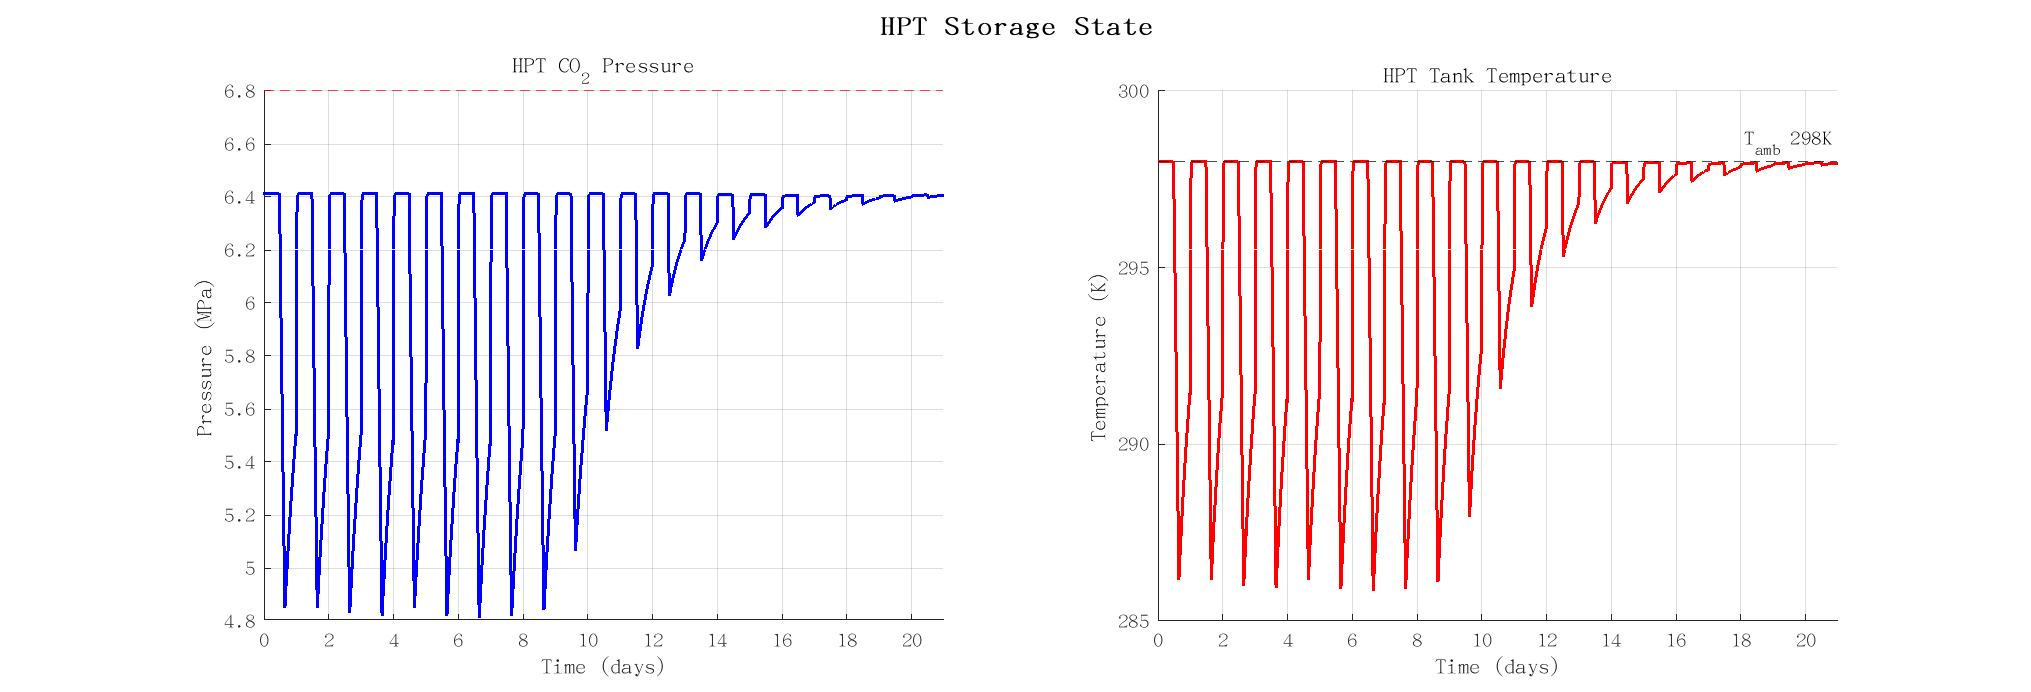
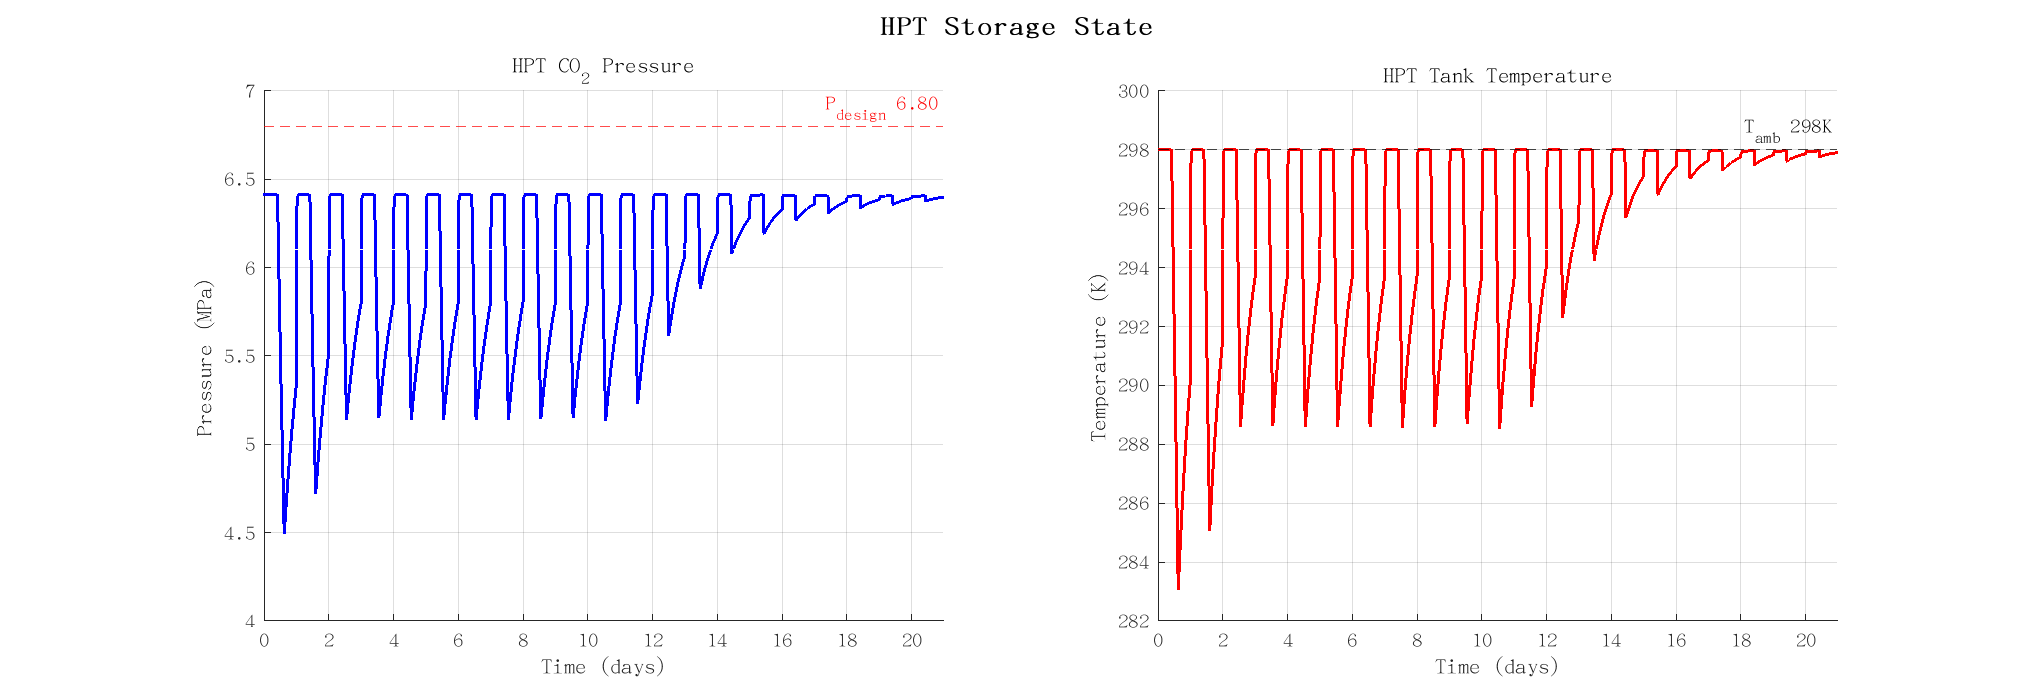
fix: equal 5h charge/discharge schedule for mass balance
Charge and discharge both 5h at equal alpha=2.744.
Mass flow: 494t charge ≈ 500t discharge per cycle.
SOC_gas 50-96%, SOC_heat 10-89%, stable cycling.
RTE=70.2% matching per-kg thermodynamic efficiency.

diff --git a/CCES_CHP_Simulink/src/ode/ode_dynamics.m b/CCES_CHP_Simulink/src/ode/ode_dynamics.m
@@ -32,12 +32,13 @@ elseif m_HPT > m_sat_vap*0.05, P_MPa = Ps/1e6;
 else,                         P_MPa = m_HPT*188.9*T_tank/V_HPT/1e6;
 end
 
-% 调度: 充电7.5h + 放电4h (质量平衡后近热平衡)
+% 调度: 充电5h + 放电5h (质量平衡: α*Wc*tc ≈ α*Wt*td)
+% Wc≈9.74 MW, Wt=10.12 MW, 相等时长→质量近平衡
 t_h = mod(t/3600, 24);
-if     t_h < 7.5;  mode = 1;
-elseif t_h < 11.5;  mode = 0;
-elseif t_h < 15.5;  mode = -1;
-else;               mode = 0;
+if     t_h < 5;    mode = 1;    % 充电5h
+elseif t_h < 10;   mode = 0;    % 闲置5h
+elseif t_h < 15;   mode = -1;   % 放电5h
+else;               mode = 0;   % 闲置9h
 end
 
 % 约束
